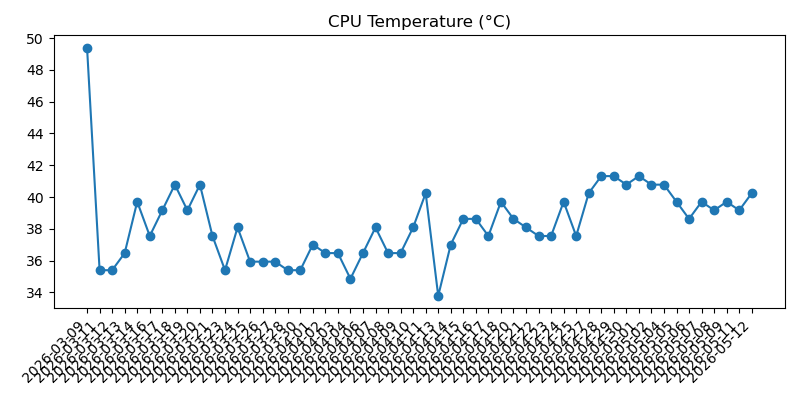
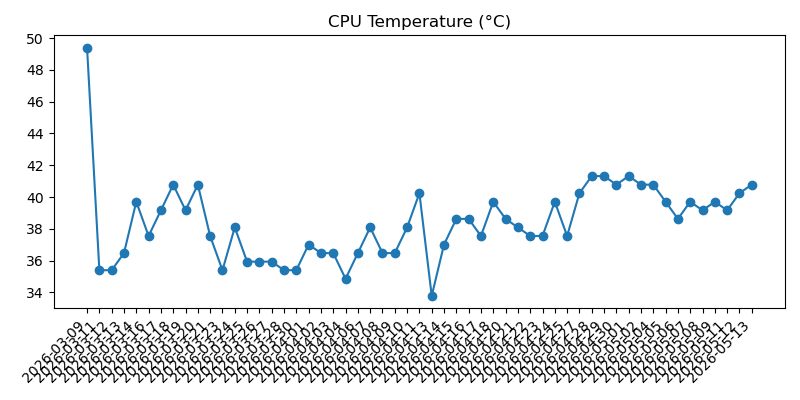
Add daily system and weather report

Changed region(s): [[0.0625, 0.78, 0.9375, 0.96], [0.1562, 0.42, 0.9688, 0.75], [0.125, 0.63, 0.1562, 0.66]]

diff --git a/2026-05.md b/2026-05.md
@@ -340,3 +340,37 @@
 - Overall: Warning
 - Warning: Power issue detected: Undervoltage has occurred; Throttling has occurred
 
+## 2026-05-13 15:45:30
+
+### Machine
+- Uptime: up 3 weeks, 1 day, 17 hours, 31 minutes
+- CPU load (1m, 5m, 15m): 0.00, 0.00, 0.00
+- RAM used: 168 MB / 921 MB (18.2%)
+- Disk used (/): 3.5 GB / 28.8 GB (12.2%)
+- Free disk space (/): 24.1 GB
+- CPU temp: 40.8°C
+- Voltage / throttling: Undervoltage has occurred; Throttling has occurred
+
+### Reachability
+- Internet check (1.1.1.1): Reachable (3.9 ms)
+
+### Weather
+- Madrid:
+  - Condition: Muy nuboso con tormenta y lluvia escasa
+  - Max temp: 19°C
+  - Min temp: 10°C
+  - Feels like: 15°C
+  - Chance of rain: 95%
+  - Warnings: None reported
+- Barcelona:
+  - Condition: Intervalos nubosos con lluvia escasa
+  - Max temp: 21°C
+  - Min temp: 15°C
+  - Feels like: 18°C
+  - Chance of rain: 65%
+  - Warnings: None reported
+
+### Health
+- Overall: Warning
+- Warning: Power issue detected: Undervoltage has occurred; Throttling has occurred
+
